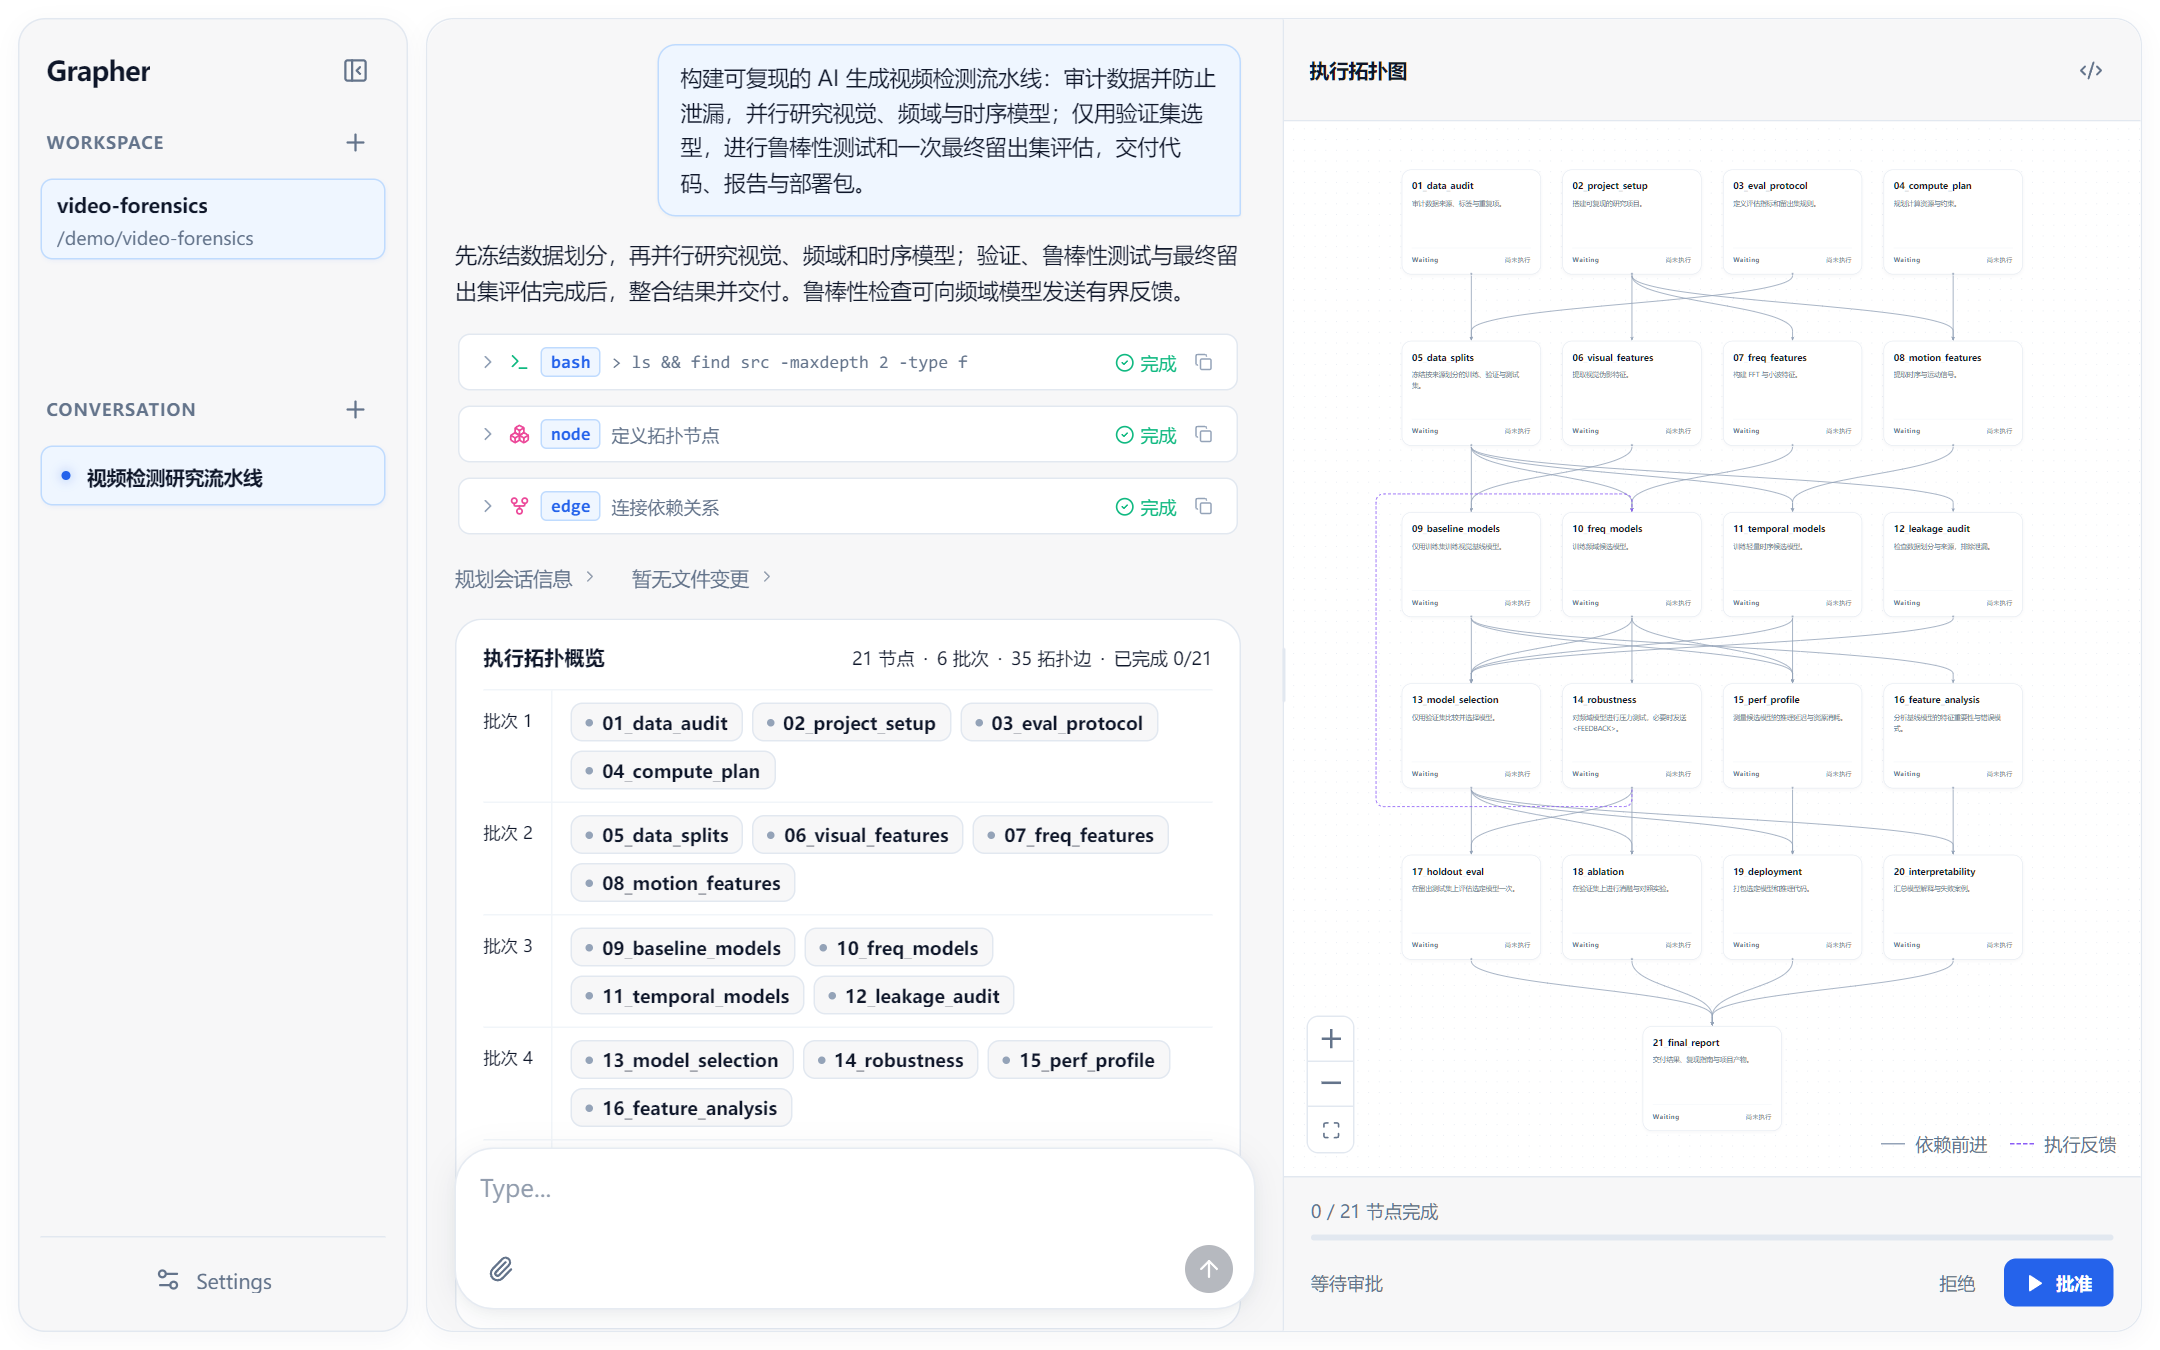
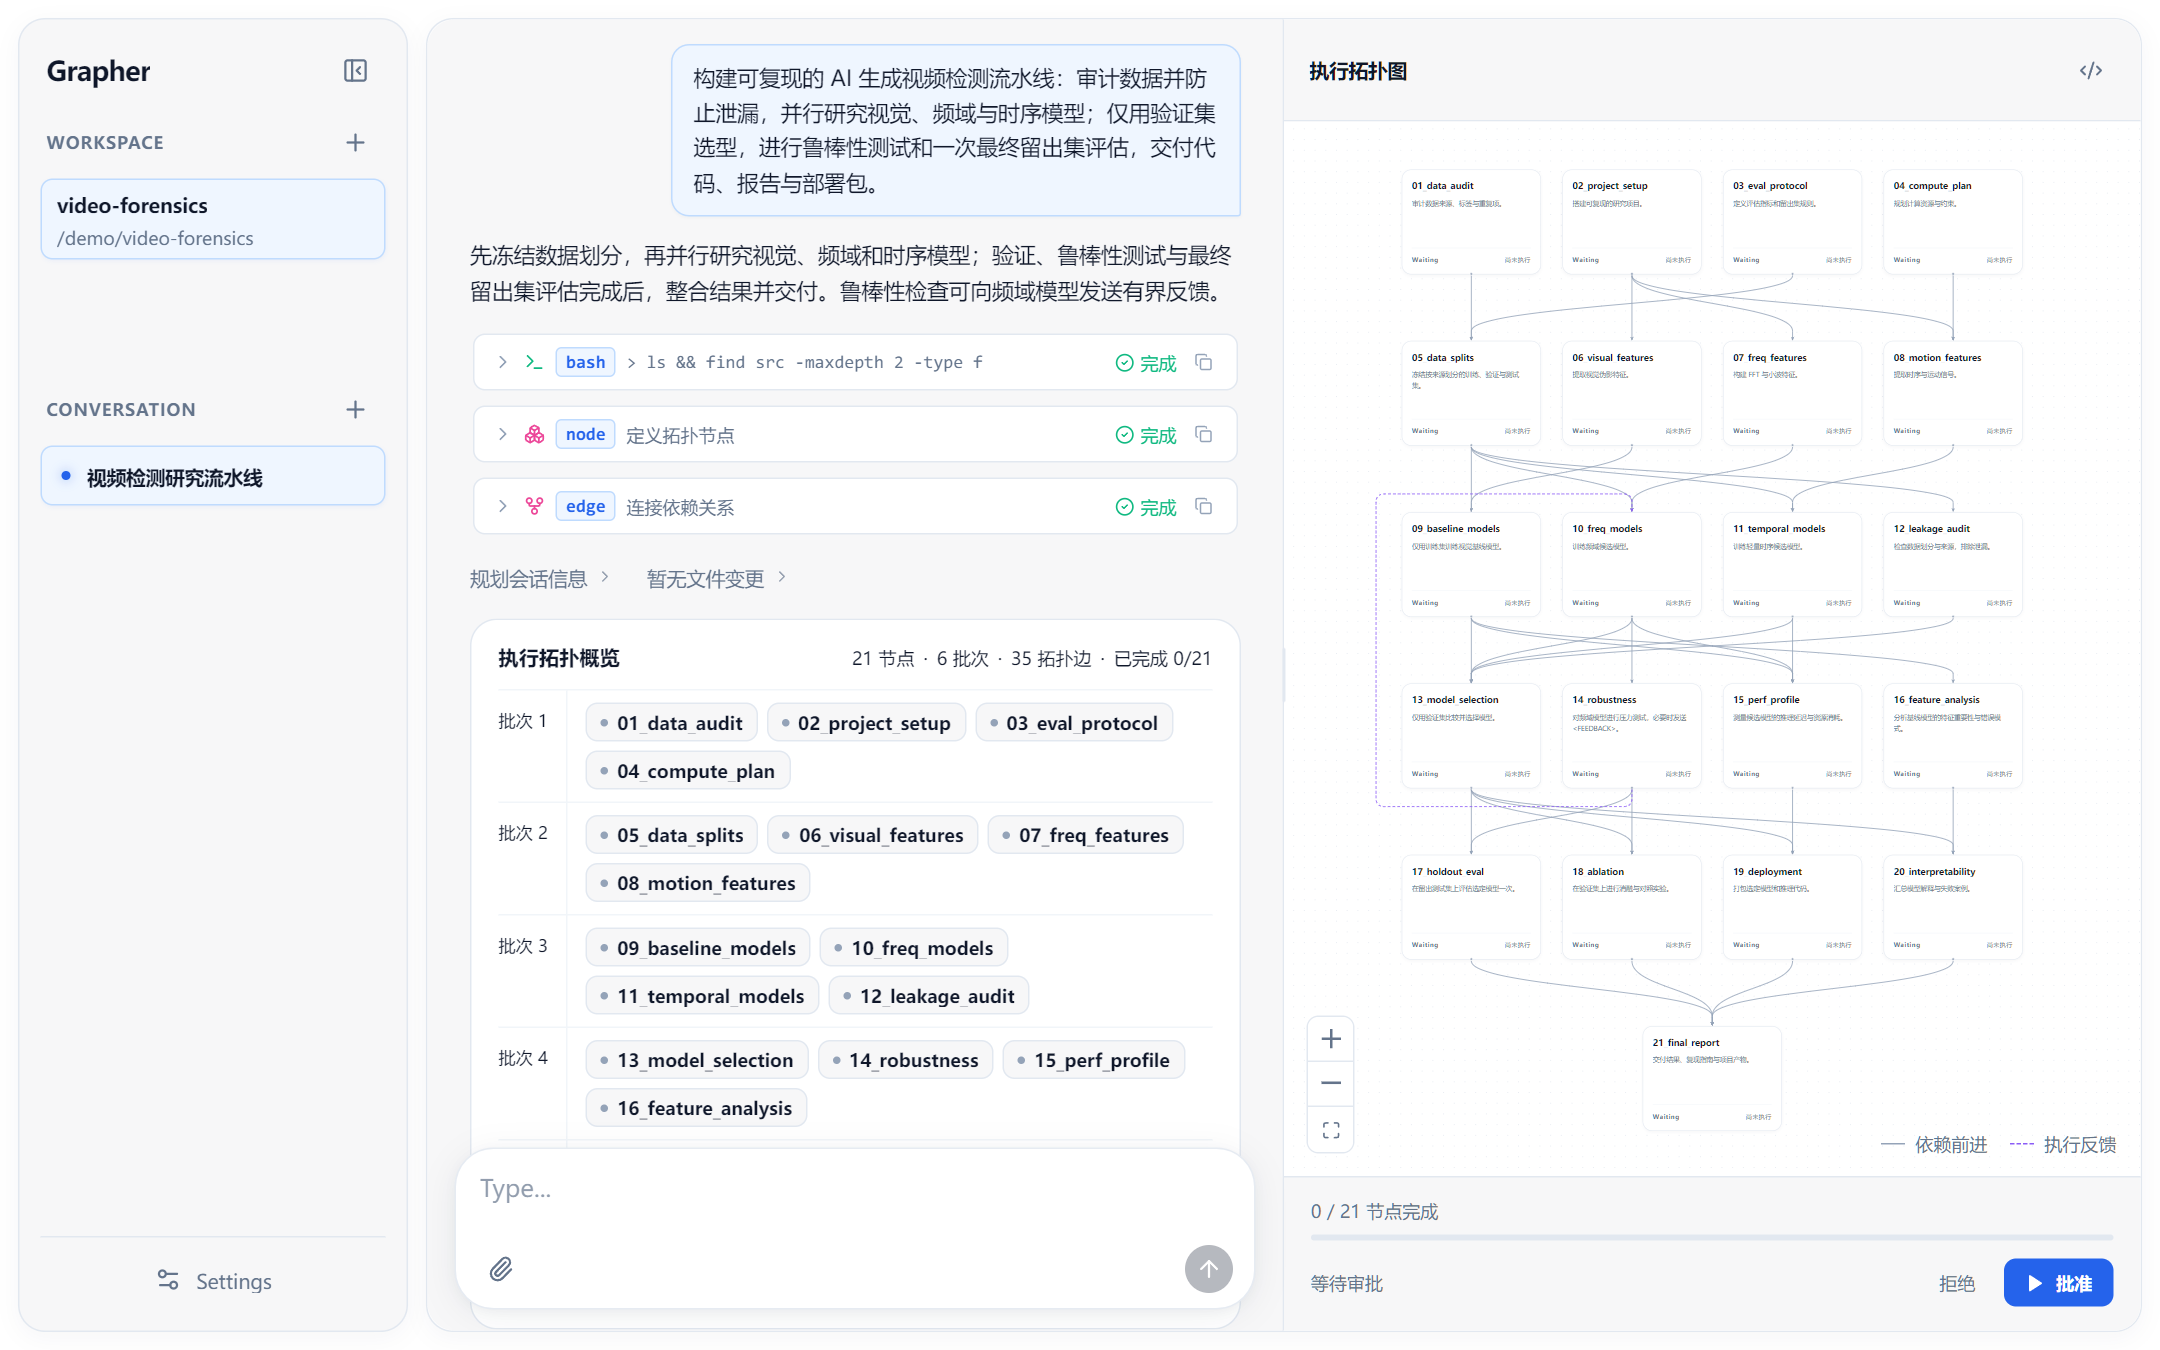
Include latest conversation alignment and screenshots in v1.8.0

diff --git a/src/components/views/GraphWorkbench.tsx b/src/components/views/GraphWorkbench.tsx
@@ -1684,7 +1684,8 @@ export const GraphWorkbench: React.FC<GraphWorkbenchProps> = React.memo(({
       stopLatestForReader();
       pointerHeldRef.current = true;
       if (isNestedScrollGesture(event, el) || scrollbarGestureRef.current) return;
-      const scrollbarWidth = el.offsetWidth - el.clientWidth;
+      // clientLeft includes the mirrored gutter from stable both-edges.
+      const scrollbarWidth = el.offsetWidth - el.clientWidth - el.clientLeft;
       const bounds = el.getBoundingClientRect();
       // Overlay scrollbars have no layout width; only count that narrow band
       // when the scroller itself is the event target, not a right-edge button.

diff --git a/src/components/VirtualizedList.tsx b/src/components/VirtualizedList.tsx
@@ -251,7 +251,7 @@ export function VirtualizedList<T extends { id: string }>({ items, renderRow, ga
       if (!parent || isNestedScrollGesture(event, parent)) return;
       cancelRestore();
       releaseAnchor();
-      const width = parent.offsetWidth - parent.clientWidth;
+      const width = parent.offsetWidth - parent.clientWidth - parent.clientLeft;
       const bounds = parent.getBoundingClientRect();
       const onScrollbar = width > 0 ? event.clientX >= bounds.right - width :
         event.target === parent && event.clientX >= bounds.right - 14;

diff --git a/src/hooks/useAutoTranscriptHistory.ts b/src/hooks/useAutoTranscriptHistory.ts
@@ -42,7 +42,7 @@ export function useAutoTranscriptHistory(ref: RefObject<HTMLElement | null>, has
       }
       if (event.type === "pointerdown") {
         const pointer = event as PointerEvent, bounds = parent.getBoundingClientRect();
-        const width = parent.offsetWidth - parent.clientWidth;
+        const width = parent.offsetWidth - parent.clientWidth - parent.clientLeft;
         if (pointer.clientX < bounds.right - (width || 14)) return;
       }
       if (isNestedScrollGesture(event, parent)) return;

diff --git a/src/styles-workbench.css b/src/styles-workbench.css
@@ -296,7 +296,8 @@
   overflow-x: hidden;
   overscroll-behavior-y: contain;
   overflow-anchor: none;
-  scrollbar-gutter: stable;
+  /* Match the overlaid composer's centerline, even with classic scrollbars. */
+  scrollbar-gutter: stable both-edges;
   padding: 16px 18px calc(var(--composer-height, 100px) + 16px);
   display: flex;
   flex-direction: column;

diff --git a/src/styles-planning.css b/src/styles-planning.css
@@ -36,7 +36,6 @@
   width: 100%;
   overscroll-behavior-y: contain;
   overflow-anchor: none;
-  scrollbar-gutter: stable;
   padding: 24px 20px calc(var(--composer-height, 100px) + 20px);
 }
 

diff --git a/docs/development/ui-components.md b/docs/development/ui-components.md
@@ -20,6 +20,8 @@ The Sidebar deliberately does **not** show hover tags/tooltips, including native
 
 ## Transcript cards and composer
 
+Transcript cards and the overlaid composer share the conversation pane's horizontal centerline in split and full-width layouts. The history scroller reserves symmetric scrollbar gutters so overflow never shifts that axis; scrollbar hit testing excludes the mirrored left gutter. [Responsive layout tests](../../scripts/responsive-layout.test.mjs) check the rendered geometry with and without overflow.
+
 The **Harness settings** card groups **Hide Auto mode**, plan approval, post-task Planner review, node workspaces and Planner file tools, separate from model configuration. All five toggles default on when unset; explicit saved opt-outs remain off. **Hide Auto mode** is a browser-local Settings preference in [displayPreferences.ts](../../src/services/displayPreferences.ts), committed only after a successful Settings save. The modal previews hiding the Partitioner controls without removing their saved model settings. Once saved, every composer mode selector fades and shrinks Auto away, including its flex gap; re-enabling it reverses the reveal. Exiting controls are inert, reduced motion skips transitions, and settled option wrappers remain unclipped so the selected pill can slide between modes. A selected or restored Auto mode becomes Graph and persists that fallback, while Serial/Graph selections remain unchanged. App submission also excludes a hidden Auto mode, including explicit overrides. Existing Run history and running routing decisions are unchanged. Cancelled or failed saves leave the live preference untouched. [Settings browser tests](../../scripts/background-settings-ui.test.mjs) cover persistence, retry, role preservation and submitted modes.
 
 `ThinkingCard` and `ToolCallCard` use `CardReveal.tsx` to grow a grid track from `0fr` to `1fr` without a full-height jump. The card remains the clipped grid item so wrapping and row measurement stay accurate. Reduced motion skips the entrance; virtualized bottom-pin adjustments emit `TRANSCRIPT_SCROLL_ADJUSTED_EVENT` so they are not mistaken for reader scrolling. Execution-record headers, parsed system error rows and cards share the transcript list's 10px spacing, including between adjacent attempts; user follow-up turns retain their larger separation. Whitespace-only assistant text is omitted from the rendered row list, not the parser, so later deltas still extend it without leaving invisible gaps between cards. Revision boundary indices follow the visible rows.

diff --git a/CHANGELOG.md b/CHANGELOG.md
@@ -58,6 +58,7 @@ and this project adheres to [Semantic Versioning](https://semver.org/spec/v2.0.0
 - Resuming nodes and other generic workspace-preparation stages no longer claim files are being copied. Only an explicit backend `copy` phase displays the copying label; unknown or mixed stages display preparation.
 - Appending a Planner follow-up or review preserves mounted history, expanded rows and reading position even after global transcript-cache eviction. The live turn stays visible until its durable log is ready.
 - Continuing explicitly user-paused work now keeps its logical attempt number across restarts, while retaining a separate execution record for every dispatch. Graph attempt badges use those recorded numbers; genuine failure retries, new user turns and recomputation still advance the attempt.
+- Conversation cards, graph overview and composer stay horizontally centered in split/full-width layouts with or without scrollbar overflow. Scrollbar gesture detection excludes the mirrored gutter.
 - Updated regression fixtures to explicitly select manual approval and exercise private workspaces with three-node batches. Legacy scheduler tests retain their original persisted-event contract instead of accidentally testing new batch defaults.
 
 ## [1.7.1] - 2026-11-11
